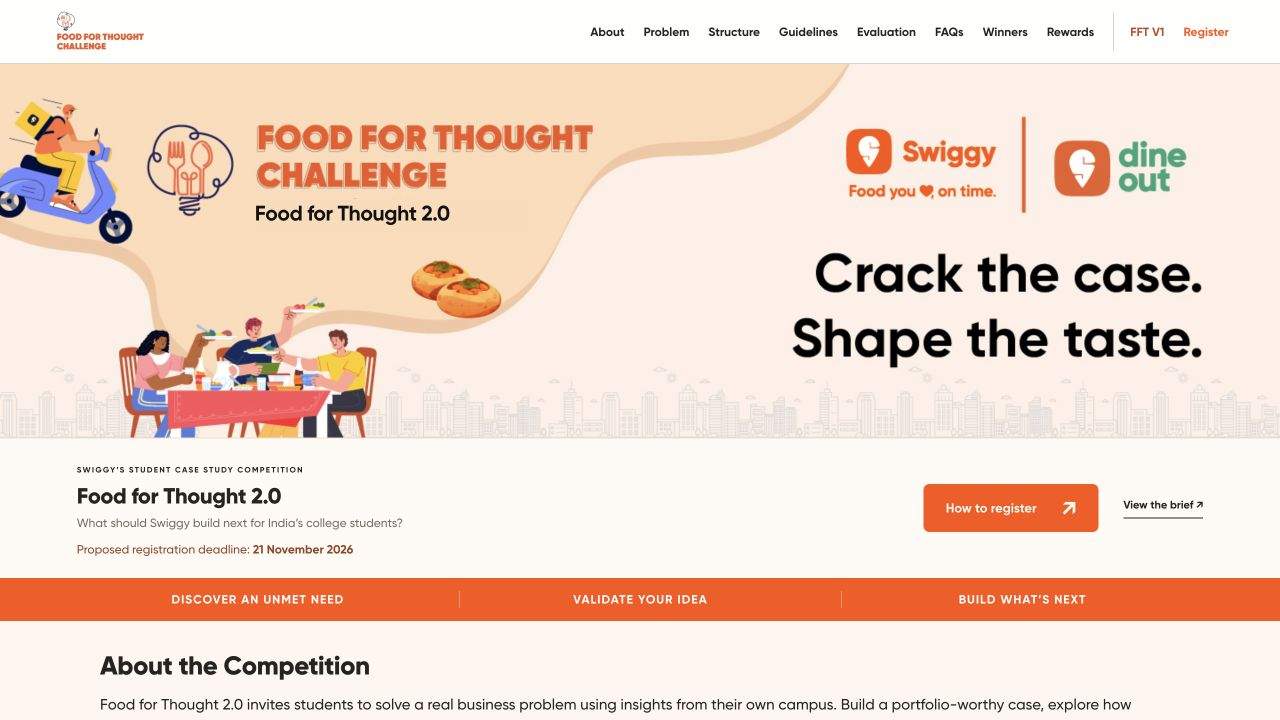
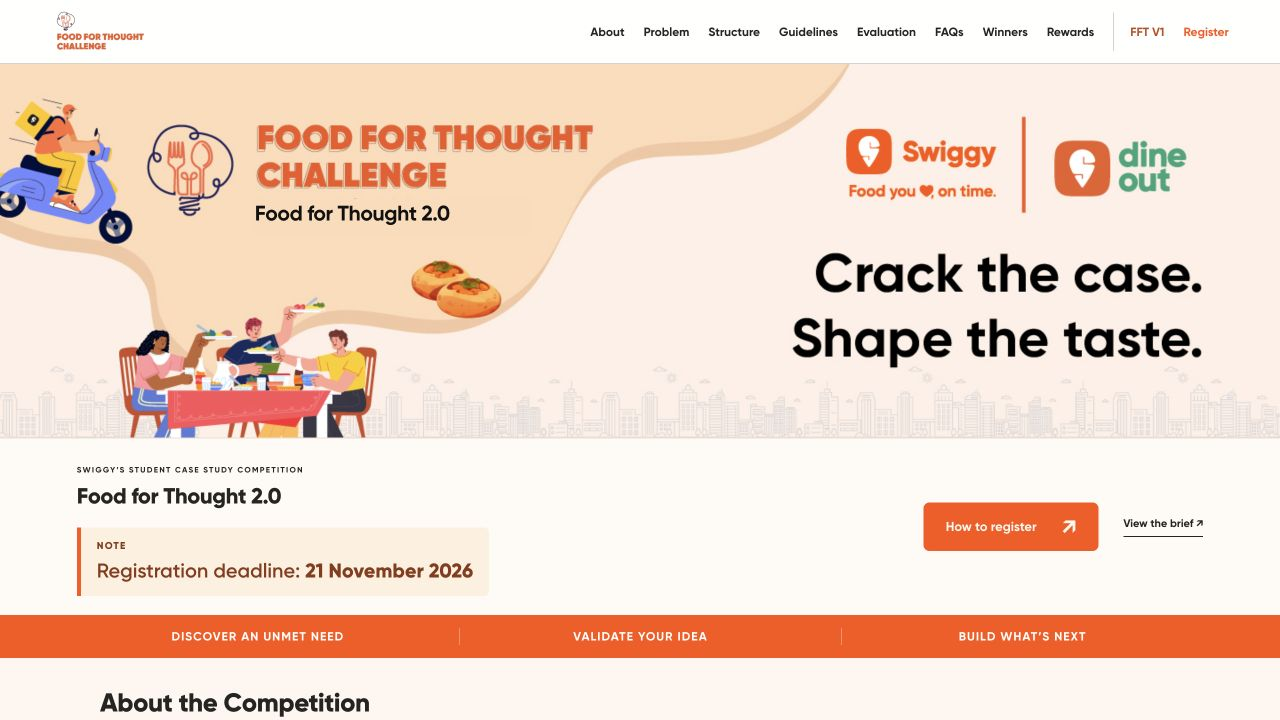
Highlight the confirmed registration deadline in the hero

Changed region(s): [[0.0, 0.7028, 1.0, 1.0], [0.7188, 0.6722, 0.9375, 0.7639]]

diff --git a/dist/index.html b/dist/index.html
@@ -22,7 +22,7 @@
 <div class="heritage-banner"><img class="heritage-image" src="assets/original-banner.jpg" alt="Swiggy Food for Thought Challenge: a campus food scene with the line Crack the case. Shape the taste." fetchpriority="high">
 <div class="banner-edition">Food for Thought 2.0</div>
 </div>
-<div class="hero-caption"><div><span class="eyebrow">SWIGGY’S STUDENT CASE STUDY COMPETITION</span><h2>Food for Thought 2.0</h2><p>What should Swiggy build next for India’s college students?</p><p class="hero-deadline">Proposed registration deadline: <strong><time datetime="2026-11-21">21 November 2026</time></strong></p></div><div class="caption-actions"><a class="button dark" href="#register">How to register <span aria-hidden="true">↗</span></a><a class="text-link" href="#problem">View the brief ↗</a></div></div>
+<div class="hero-caption"><div><span class="eyebrow">SWIGGY’S STUDENT CASE STUDY COMPETITION</span><h2>Food for Thought 2.0</h2><div class="hero-deadline" role="note" aria-label="Registration deadline"><span class="deadline-note-label">Note</span><p>Registration deadline: <strong><time datetime="2026-11-21">21 November 2026</time></strong></p></div></div><div class="caption-actions"><a class="button dark" href="#register">How to register <span aria-hidden="true">↗</span></a><a class="text-link" href="#problem">View the brief ↗</a></div></div>
 </section>
 <div class="message-strip" aria-label="Competition focus"><span>DISCOVER AN UNMET NEED</span><span>VALIDATE YOUR IDEA</span><span>BUILD WHAT’S NEXT</span></div>
 <section id="about" class="section competition-intro"><div class="intro-wrap">
@@ -36,7 +36,7 @@
 <div class="section-marker">02 / YOUR GUIDE TO FOOD FOR THOUGHT 2.0</div><div class="section-heading"><h2>Campus insight.<br><span class="orange-text">Real possibility.</span></h2><p>All batches. All disciplines.<br>Students at eligible colleges in India.</p></div>
 <div class="entry-facts"><div><strong>2–4</strong><span>members · same college</span></div><div><strong>2 parts</strong><span>business case + prototype video</span></div><div><strong>AI required</strong><span>show its role and the value it adds</span></div></div>
 <div class="submission-overview" id="evaluation" aria-labelledby="evaluation-title"><h3 id="evaluation-title">What you submit. How it’s weighted.</h3><div class="submission-cards"><article><span class="weight">70%</span><div><h4>Business case · up to 5 slides</h4><p>Campus insight, solution, user journey, business impact and execution plan. Include at least one form of campus-level validation.</p><a class="text-link" href="#guidelines">Read the five-slide guide ↓</a></div></article><article><span class="weight">30%</span><div><h4>Prototype · short video walkthrough</h4><p>Show a functional or simulated prototype of the same idea, preferably a web app. AI is mandatory; use Swiggy MCP capabilities wherever relevant.</p><a class="text-link" href="#prototype">Read prototype requirements ↓</a></div></article></div><p class="evaluation-note">Business case: insight, solution quality, impact, feasibility and scalability. Prototype: a working experience, the core user journey and relevant Swiggy MCP usage. A production-ready app is not required.</p></div>
-<div class="key-dates" id="dates" aria-labelledby="dates-title"><div class="dates-heading"><h3 id="dates-title">Proposed timeline</h3><span>Dates subject to confirmation · 2026–27</span></div><ol><li><span>Launch</span><time datetime="2026-11-07">7 Nov 2026</time></li><li><span>Registration closes</span><time datetime="2026-11-21">21 Nov 2026</time></li><li><span>Submission deadline</span><time datetime="2026-12-15">15 Dec 2026</time></li><li><span>Evaluation process</span><time datetime="2026-12-31">31 Dec 2026</time></li><li><span>National finale</span><time datetime="2027-01-15">15 Jan 2027</time></li></ol></div>
+<div class="key-dates" id="dates" aria-labelledby="dates-title"><div class="dates-heading"><h3 id="dates-title">Key dates</h3><span>Registration deadline confirmed · other dates proposed · 2026–27</span></div><ol><li><span>Launch</span><time datetime="2026-11-07">7 Nov 2026</time></li><li><span>Registration closes · confirmed</span><time datetime="2026-11-21">21 Nov 2026</time></li><li><span>Submission deadline</span><time datetime="2026-12-15">15 Dec 2026</time></li><li><span>Evaluation process</span><time datetime="2026-12-31">31 Dec 2026</time></li><li><span>National finale</span><time datetime="2027-01-15">15 Jan 2027</time></li></ol></div>
 <details id="structure" class="structure-details"><summary>The competition journey: registration to national finale <span aria-hidden="true">+</span></summary><div class="detail-body"><ol><li><strong>Registration:</strong> Every participant registers for Student Rewards, and the team enters through the competition platform when the official link is available.</li><li><strong>Submission:</strong> Submit the business case presentation of up to five slides and a short video walkthrough of your prototype in the prescribed format through the competition platform.</li><li><strong>AI-assisted screening:</strong> Eligibility and completeness checks, scoring against predefined parameters, an idea summary and scoring rationale, identification of similar/repetitive submissions, and a preliminary leaderboard.</li><li><strong>Human validation:</strong> Campus, NSO and relevant business teams review the top 50 AI-ranked submissions, cases close to the cutoff, duplication flags and high-potential ideas requiring additional judgment. The panel selects 6–7 finalists.</li><li><strong>National finale:</strong> The top 6–7 teams present in person to Swiggy leadership. The proposed date is 15 January 2027; the location will be announced.</li></ol></div></details>
 <div class="entry-details">
 <details id="eligibility"><summary>Eligibility and team rules <span aria-hidden="true">+</span></summary><div class="detail-body"><ul><li>Open to students across eligible colleges in India, from all batches and academic disciplines.</li><li>Every participant must register for <a href="#register">Swiggy Student Rewards</a>.</li><li>Form a team of 2–4 members, all from the same college. A student may join only one team.</li><li>There is no limit on the number of teams from a college.</li><li>Team members cannot change after registration closes.</li><li>Only submissions in the prescribed format and received within the deadline will be considered.</li></ul></div></details>
@@ -47,7 +47,7 @@
 <details id="judging"><summary>Evaluation framework and finale judging <span aria-hidden="true">+</span></summary><div class="detail-body"><p><strong>Business case: 70%.</strong> Insight, proposed solution, business impact, feasibility and scalability.</p><p><strong>Prototype demonstration: 30%.</strong> How effectively you bring the solution to a working experience, show the core user journey and use available Swiggy MCP capabilities where relevant.</p><p>The national finale jury will select the winner based on <strong>quality of insight, originality, business potential, execution feasibility, and presentation and responses to questions.</strong></p><p>AI-assisted screening is followed by human validation, with 6–7 teams selected for the in-person finale.</p></div></details>
 <details id="tips"><summary>Tips for a stronger case and prototype <span aria-hidden="true">+</span></summary><div class="detail-body"><ul><li><strong>Start with campus evidence:</strong> Validate a meaningful need and explain what your research changed.</li><li><strong>Show why Swiggy:</strong> Connect the idea to its core ecosystem and capabilities.</li><li><strong>Make impact measurable:</strong> Explain your assumptions, expected outcomes, estimated costs and success measures.</li><li><strong>Keep the two submissions connected:</strong> Your video should demonstrate the idea in the business case, including its complete core user journey.</li><li><strong>Show AI in action:</strong> Explain its role and value, and use relevant available Swiggy MCP capabilities.</li><li><strong>Keep a realistic pilot:</strong> Address implementation, dependencies, risks and a path to scale.</li></ul></div></details>
 <details id="initiatives"><summary>Know Swiggy: Food, Dineout, Instamart &amp; Student Rewards <span aria-hidden="true">+</span></summary><div class="detail-body"><div class="initiative-links"><article><strong>Swiggy Food</strong><p>Food delivery for everyday meals and different campus occasions.</p></article><article><strong>Swiggy Dineout</strong><p>Dining-out experiences for student plans beyond campus.</p></article><article><strong>Swiggy Instamart</strong><p>Quick commerce for groceries and everyday essentials.</p></article></div><p>Keep your idea naturally linked to Swiggy’s existing ecosystem and capabilities, and the challenge scope above.</p><a class="text-link" href="https://swiggy.onelink.me/888564224/u631l8dw" target="_blank" rel="noopener">Explore &amp; register for Student Rewards ↗</a></div></details>
-<details id="faqs"><summary>Frequently asked questions <span aria-hidden="true">+</span></summary><div class="detail-body faq-body"><h3>What do we submit?</h3><p>Two connected components: a business case presentation of up to five slides (70%) and a short video walkthrough of a functional or simulated prototype (30%). A web app is preferred; a production-ready app is not required.</p><h3>Is AI mandatory? What about Swiggy MCP?</h3><p>Yes, AI is mandatory. Show where it is used and what value it adds. Use available Swiggy MCP capabilities wherever relevant to your solution.</p><h3>Can students from different colleges form a team?</h3><p>No. All 2–4 members must belong to the same college. Students from all batches and disciplines at eligible colleges in India may participate, but each student may join only one team. Team members cannot change after registration closes.</p><h3>Does every member need Student Rewards?</h3><p>Yes. Every participant must register for Student Rewards. This prerequisite is separate from registering the team for Food for Thought 2.0.</p><h3>Is primary research mandatory?</h3><p>Yes. Include at least one student survey, student interview exercise, campus observation, small experiment or prototype/concept test. Explain the key insight and how it shaped your solution.</p><h3>When are the deadlines?</h3><p>The proposed schedule has registration closing on <time datetime="2026-11-21">21 November 2026</time>, submissions due on <time datetime="2026-12-15">15 December 2026</time>, evaluation on <time datetime="2026-12-31">31 December 2026</time>, and the national finale on <time datetime="2027-01-15">15 January 2027</time>. Dates are subject to confirmation; the finale location will be announced.</p><h3>Can we share our prototype publicly?</h3><p>Not without prior approval from Swiggy. Any public publication, showcase or sharing of submitted prototypes or materials is subject to Swiggy’s applicable internal reviews and approvals.</p><h3>Where do we register and submit?</h3><p>The official competition link will be added once available. Register for Student Rewards using the link below in the meantime; this does not register your team for the competition. Platform-specific upload instructions will be announced.</p></div></details>
+<details id="faqs"><summary>Frequently asked questions <span aria-hidden="true">+</span></summary><div class="detail-body faq-body"><h3>What do we submit?</h3><p>Two connected components: a business case presentation of up to five slides (70%) and a short video walkthrough of a functional or simulated prototype (30%). A web app is preferred; a production-ready app is not required.</p><h3>Is AI mandatory? What about Swiggy MCP?</h3><p>Yes, AI is mandatory. Show where it is used and what value it adds. Use available Swiggy MCP capabilities wherever relevant to your solution.</p><h3>Can students from different colleges form a team?</h3><p>No. All 2–4 members must belong to the same college. Students from all batches and disciplines at eligible colleges in India may participate, but each student may join only one team. Team members cannot change after registration closes.</p><h3>Does every member need Student Rewards?</h3><p>Yes. Every participant must register for Student Rewards. This prerequisite is separate from registering the team for Food for Thought 2.0.</p><h3>Is primary research mandatory?</h3><p>Yes. Include at least one student survey, student interview exercise, campus observation, small experiment or prototype/concept test. Explain the key insight and how it shaped your solution.</p><h3>When are the deadlines?</h3><p>Registration closes on <strong><time datetime="2026-11-21">21 November 2026</time></strong>. The remaining proposed schedule has submissions due on <time datetime="2026-12-15">15 December 2026</time>, evaluation on <time datetime="2026-12-31">31 December 2026</time>, and the national finale on <time datetime="2027-01-15">15 January 2027</time>. These remaining dates are subject to confirmation; the finale location will be announced.</p><h3>Can we share our prototype publicly?</h3><p>Not without prior approval from Swiggy. Any public publication, showcase or sharing of submitted prototypes or materials is subject to Swiggy’s applicable internal reviews and approvals.</p><h3>Where do we register and submit?</h3><p>The official competition link will be added once available. Register for Student Rewards using the link below in the meantime; this does not register your team for the competition. Platform-specific upload instructions will be announced.</p></div></details>
 </div>
 </section>
 <section id="winners" class="section compact-winners">
@@ -61,7 +61,7 @@
 <div class="section-marker">04 / THE REWARDS</div><div class="section-heading"><h2>Good ideas.<br><span>Great rewards.</span></h2><div><span class="pill light">FOOD FOR THOUGHT 2.0</span><p>Cash rewards, career opportunities<br>and DineCash for student teams.</p></div></div>
 <div class="reward-grid fft20-rewards"><article class="winner-reward"><span class="reward-rank">NATIONAL WINNER</span><span class="reward-symbol" aria-hidden="true">✦</span><strong>₹1,50,000</strong><p>Cash prizes + a <b>pre-placement interview opportunity</b> with Swiggy.</p></article><article><span class="reward-rank">FIRST RUNNER-UP</span><span class="reward-symbol" aria-hidden="true">↗</span><strong>₹50,000</strong><p>Cash prize for the first runner-up team.</p></article><article><span class="reward-rank">TOP 50 TEAMS</span><span class="reward-symbol" aria-hidden="true">◎</span><strong>₹2,000</strong><p>DineCash per team.<br>₹1,00,000 across the top 50.</p></article><article><span class="reward-rank">ALL REGISTERING STUDENTS</span><span class="reward-symbol" aria-hidden="true">☺</span><strong>₹200</strong><p>DineCash per student.</p></article></div>
 </section>
-<section class="section registration-section" id="register"><div class="registration-heading"><span class="eyebrow">FOOD FOR THOUGHT 2.0 / REGISTRATION</span><h2>Get your team ready.</h2><p>Proposed registration deadline: <strong><time datetime="2026-11-21">21 November 2026</time></strong></p><p class="schedule-note">Proposed launch: 7 November 2026. Schedule subject to confirmation.</p></div><div class="registration-steps"><article><span class="step">01</span><div><h3>Every member: Student Rewards</h3><p>All participants must register for Swiggy Student Rewards. Complete this prerequisite using the official link.</p><a class="button orange" href="https://swiggy.onelink.me/888564224/u631l8dw" target="_blank" rel="noopener">Register for Student Rewards <span aria-hidden="true">↗</span></a></div></article><article><span class="step">02</span><div><h3>Register your competition team</h3><p>Form your team of 2–4 students from the same college. The official Food for Thought 2.0 team registration link will be added here once available.</p><button class="button registration-pending" disabled>Competition link coming soon</button><small>Student Rewards registration does not register your team for the competition.</small></div></article></div><p class="submission-consent-note"><strong>Before you submit:</strong> Any public sharing, publication or showcase of submitted prototypes or materials requires prior approval from Swiggy and its applicable internal reviews.</p></section>
+<section class="section registration-section" id="register"><div class="registration-heading"><span class="eyebrow">FOOD FOR THOUGHT 2.0 / REGISTRATION</span><h2>Get your team ready.</h2><p>Registration deadline: <strong><time datetime="2026-11-21">21 November 2026</time></strong></p><p class="schedule-note">Proposed launch: 7 November 2026. Other event dates remain subject to confirmation.</p></div><div class="registration-steps"><article><span class="step">01</span><div><h3>Every member: Student Rewards</h3><p>All participants must register for Swiggy Student Rewards. Complete this prerequisite using the official link.</p><a class="button orange" href="https://swiggy.onelink.me/888564224/u631l8dw" target="_blank" rel="noopener">Register for Student Rewards <span aria-hidden="true">↗</span></a></div></article><article><span class="step">02</span><div><h3>Register your competition team</h3><p>Form your team of 2–4 students from the same college. The official Food for Thought 2.0 team registration link will be added here once available.</p><button class="button registration-pending" disabled>Competition link coming soon</button><small>Student Rewards registration does not register your team for the competition.</small></div></article></div><p class="submission-consent-note"><strong>Before you submit:</strong> Any public sharing, publication or showcase of submitted prototypes or materials requires prior approval from Swiggy and its applicable internal reviews.</p></section>
 </div><div id="v1-panel" role="region" aria-label="Food for Thought first-edition recap" hidden><h1 class="visually-hidden">About FFT V1 — The First Edition</h1><section id="legacy" class="section legacy">
   <div class="section-marker">ABOUT FFT V1 / THE CLASS OF ’25</div><div class="section-heading"><h2>The first serving<br>was <span class="orange-text">something else.</span></h2><a class="text-link" href="https://blog.swiggy.com/news/food-for-thought-challenge-2025-swiggys-first-ever-student-case-study-competition/" target="_blank" rel="noopener">Read the full story ↗</a></div>
   <div class="legacy-stats"><div><strong>8,000<span>+</span></strong><span>STUDENTS WITH BIG IDEAS</span></div><div><strong>600<span>+</span></strong><span>COLLEGES AT THE TABLE</span></div><div><strong>2,600<span>+</span></strong><span>CASES THAT GOT US THINKING</span></div></div>

diff --git a/dist/styles.css b/dist/styles.css
@@ -74,3 +74,9 @@ dialog{background:var(--cream);border:1px solid var(--ink);border-radius:12px;pa
 /* Plain-language challenge and scope remain visible before detailed guidance. */
 .plain-problem{margin-top:25px}.problem-label{display:block;font-size:10px;font-weight:700;letter-spacing:1.1px;color:#a34622}.competition-intro .plain-problem h3{margin-top:9px}.competition-intro .problem-steps{list-style:none;counter-reset:challenge-step;display:grid;grid-template-columns:repeat(3,minmax(0,1fr));gap:22px;padding:0;margin:21px 0}.problem-steps li{counter-increment:challenge-step;position:relative;padding:0 0 0 29px!important}.problem-steps li:before{content:counter(challenge-step);position:absolute;top:0;left:0;color:var(--orange);font-weight:900;font-size:18px;line-height:1.4}.problem-steps strong,.problem-steps span{display:block}.competition-intro .problem-steps strong{font-size:15px;line-height:1.4;margin-bottom:7px}.competition-intro .problem-steps span{font-size:13px;line-height:1.65}.competition-intro .problem-deliverables{font-size:14px;line-height:1.65;background:#ffead9;border-left:3px solid var(--orange);padding:13px 16px}.visible-scope{margin-top:23px;border-top:1px solid #e5d5c8;padding-top:20px}.visible-scope h4{font-size:19px;letter-spacing:-.3px;margin:0 0 8px}.competition-intro .visible-scope>p{font-size:14px}.competition-intro .visible-scope ul{margin:12px 0 15px;gap:5px 30px;grid-template-columns:1fr 1fr}.competition-intro .visible-scope li{font-size:14px}.competition-intro .visible-scope .scope-boundary{font-size:13px;line-height:1.6;color:#68594e}
 @media(max-width:640px){.plain-problem{margin-top:23px}.problem-label{font-size:9px}.competition-intro .problem-steps{grid-template-columns:1fr;gap:16px;margin:19px 0}.competition-intro .problem-steps strong{font-size:14px;margin-bottom:4px}.competition-intro .problem-steps span{font-size:12px}.competition-intro .problem-deliverables{font-size:12px;padding:12px 14px}.visible-scope{margin-top:20px;padding-top:18px}.visible-scope h4{font-size:18px}.competition-intro .visible-scope>p,.competition-intro .visible-scope li{font-size:13px}.competition-intro .visible-scope ul{grid-template-columns:1fr;gap:5px}.competition-intro .visible-scope .scope-boundary{font-size:12px}}
+
+/* Make the confirmed registration deadline a prominent hero note. */
+.hero-caption .hero-deadline{display:inline-block;margin-top:14px;padding:11px 16px;background:#fff0df;border-left:4px solid var(--orange);border-radius:0 5px 5px 0;color:#8b3816}.deadline-note-label{display:block;font-size:10px;line-height:1.4;letter-spacing:1.2px;text-transform:uppercase;font-weight:900;margin-bottom:4px}.hero-caption .hero-deadline p{font-size:20px;line-height:1.4;margin:0;color:inherit;font-weight:500}.hero-caption .hero-deadline strong{font-weight:900}
+@media(max-width:640px){.hero-caption .hero-deadline{margin-top:12px;padding:10px 13px}.hero-caption .hero-deadline p{font-size:17px;line-height:1.45}.deadline-note-label{font-size:9px}}
+
+.hero-deadline time{white-space:nowrap}

diff --git a/README.md b/README.md
@@ -6,7 +6,9 @@ A responsive website for Swiggy’s student case study competition. Food for Tho
 
 **Status:** Updated with the latest Food for Thought 2.0 brief. AI use and a prototype video are mandatory. Evaluation is **70% business case / 30% prototype**. The official competition entry URL is pending; the Student Rewards prerequisite link is available.
 
-**Proposed schedule (subject to confirmation):** Launch 7 November 2026 · registration deadline 21 November 2026 · submission deadline 15 December 2026 · evaluation process 31 December 2026 · national finale 15 January 2027. This replaces the earlier 30 October registration deadline.
+**Confirmed registration deadline: 21 November 2026.** The hero displays this as a prominent note.
+
+**Other dates remain proposed:** Launch 7 November 2026 · submission deadline 15 December 2026 · evaluation process 31 December 2026 · national finale 15 January 2027.
 
 ![Food for Thought Challenge website preview](docs/website-preview.jpg)
 
@@ -32,7 +34,7 @@ A plain-language, three-step problem explanation follows About the Competition. 
 ### Registration behavior
 
 1. Every participant can use the [official Student Rewards link](https://swiggy.onelink.me/888564224/u631l8dw).
-2. The proposed competition registration deadline is **21 November 2026**. Its official URL is intentionally omitted until supplied; the pending button is disabled.
+2. The confirmed competition registration deadline is **21 November 2026**. Its official URL is intentionally omitted until supplied; the pending button is disabled.
 
 Student Rewards signup does **not** register a team for the competition. The website does not collect student data or accept case uploads itself. Once supplied, replace the disabled button in `#register` with a link to the official competition platform and update the explanatory text and FAQ.
 
@@ -84,9 +86,9 @@ The included `vercel.json` sets `dist` as the output directory for static hostin
 
 ## Review notes
 
-Checked desktop and 390px mobile layouts, horizontal overflow, mobile menu closing after navigation, evaluation links opening submission/prototype guidance, FAQs and FFT V1 switching. Verified JavaScript syntax, internal anchors/assets, branding, mandatory AI wording, 70/30 weights, all five proposed dates and prize amounts.
+Checked desktop and 390px mobile layouts, horizontal overflow, mobile menu closing after navigation, evaluation links opening submission/prototype guidance, FAQs and FFT V1 switching. Verified JavaScript syntax, internal anchors/assets, branding, mandatory AI wording, 70/30 weights, the confirmed registration deadline and other proposed dates and prize amounts.
 
-Still pending: the competition registration URL, platform-specific upload instructions, finale location and confirmation of the proposed schedule. No video duration or upload limits have been invented.
+Still pending: the competition registration URL, platform-specific upload instructions, finale location and confirmation of the remaining proposed dates. No video duration or upload limits have been invented.
 
 The latest proposed dates take precedence over the older registration deadline in the supplied brief. January’s finale is treated as 2027, following the November–December 2026 stages.
 
